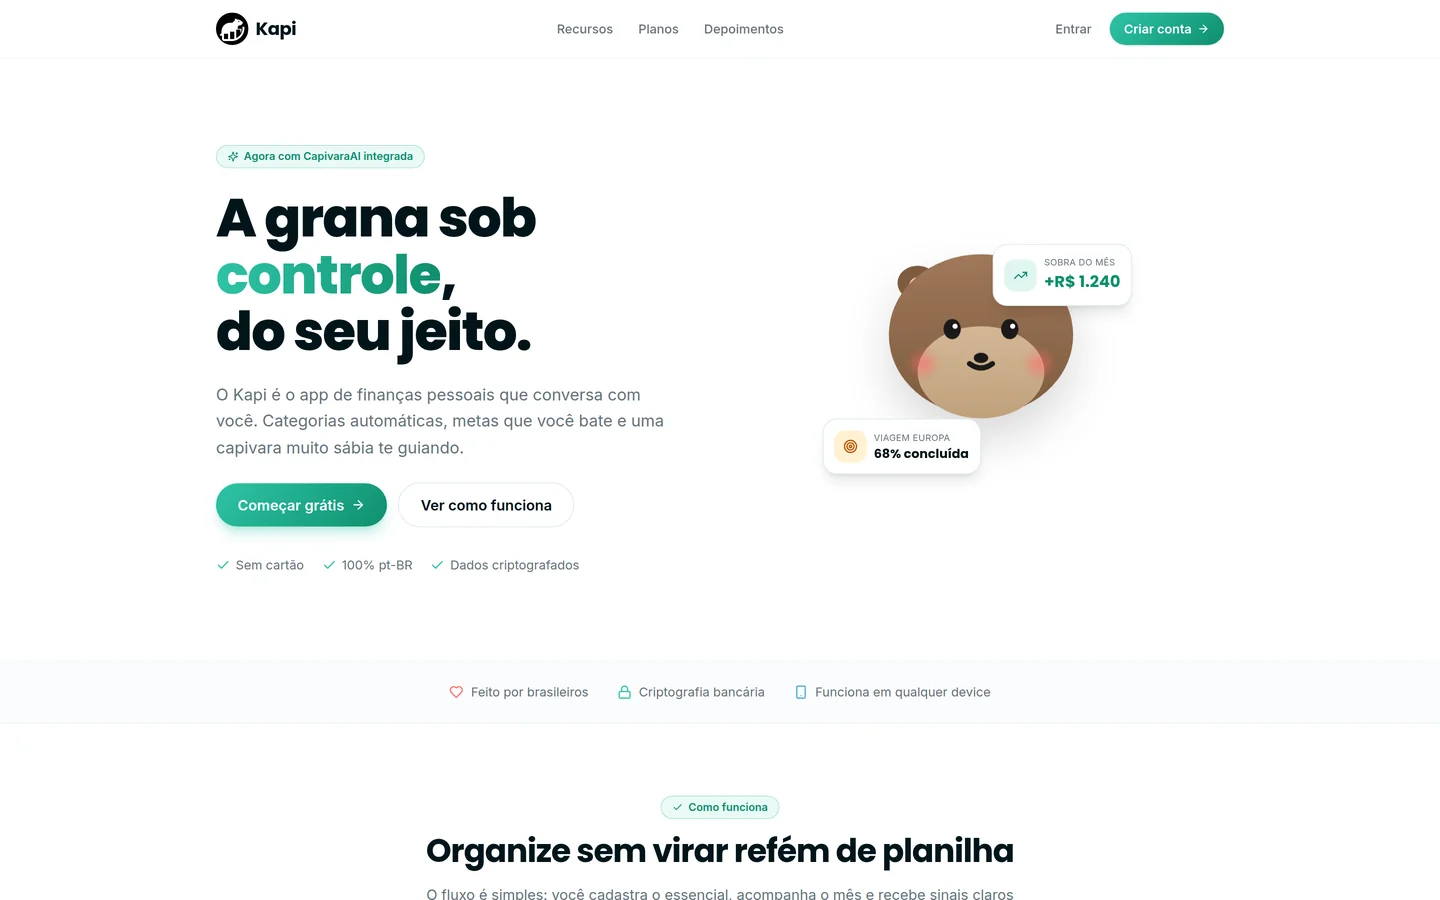
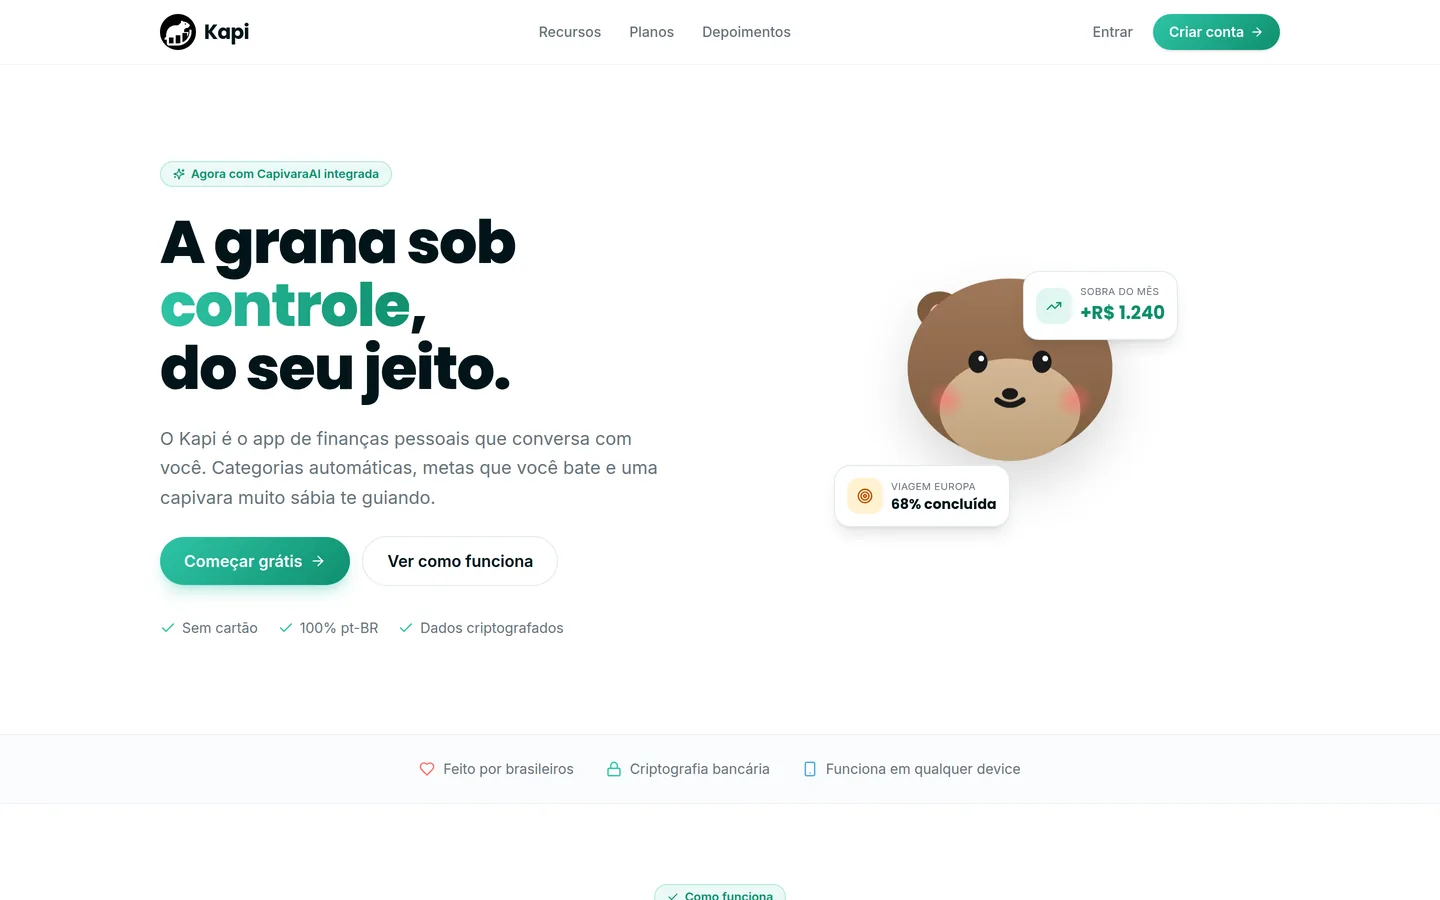
Kapi: link para appkapi.com.br, status no ar e print do site real

diff --git a/index.html b/index.html
@@ -394,9 +394,9 @@ const PRODUCTS = [
        desc:"Workout and nutrition app with an AI coach, plus a website and a web panel for personal trainers to follow their clients.",
        bullets:["Workout plans that progress every session, with load suggestions","Calculated nutrition targets and AI meal logging from a photo","An AI coach that chats and only changes the plan with your approval","Trainer panel: clients, plans, progress and messages","Offline sync, Google sign-in and push notifications"],
        alt:["Pulso website","Trainer panel: client list","Trainer panel: client overview","App: Today screen","Website on mobile"]}},
-  {id:"kapi", name:"Kapi", url:null, host:"Kapi · finanças pessoais",
+  {id:"kapi", name:"Kapi", url:"https://appkapi.com.br/", host:"appkapi.com.br",
    stack:["Laravel","React","TypeScript","Inertia","Tailwind","PostgreSQL","Claude (IA)"],
-   status:{c:"#C2A4FF", pt:"Web + API para app mobile", en:"Web + mobile app API"},
+   status:{c:"#3DDC97", pt:"No ar", en:"Live"},
    shots:[["kapi-dashboard.webp","d"],["kapi-site.webp","d"],["kapi-orcamentos.webp","d"],["kapi-planejamento.webp","d"],["kapi-metas.webp","d"],["kapi-mobile-dashboard.webp","m"],["kapi-mobile-metas.webp","m"]],
    pt:{k:"Plataforma web · Finanças pessoais", tag:"A grana sob controle, do seu jeito.",
        desc:"Gerenciador financeiro pessoal com a CapivaraAI, uma mentora financeira com IA que conversa com você sobre o seu dinheiro.",
